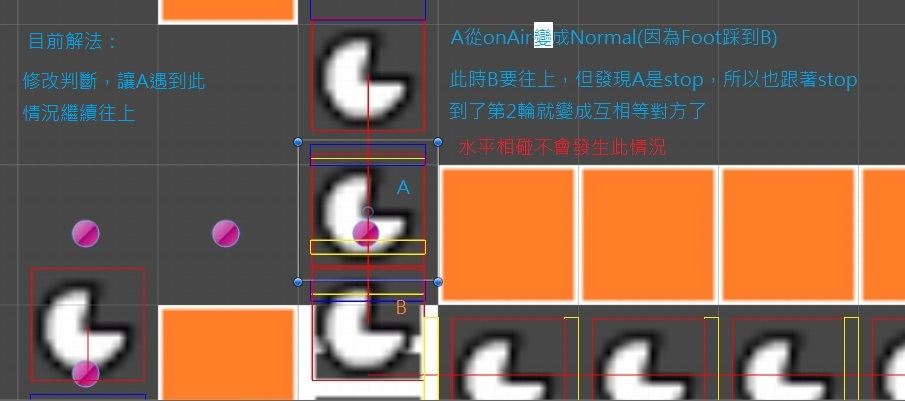
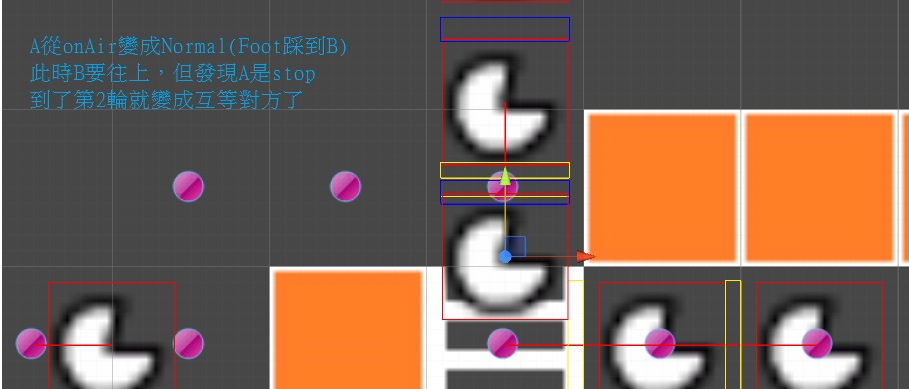
修bug：onComing
(1)修復LodeRunnerScreenshot\備註\瞬移.jpg
(2)找到引起LodeRunnerScreenshot\fixed\onComing.jpg的原因並修正

diff --git a/Assets/script/Controller/LodeRunner/Movable.cs b/Assets/script/Controller/LodeRunner/Movable.cs
@@ -126,6 +126,8 @@ public class Movable : MonoBehaviour {
     //(1)玩家降落到rope時，要再發送一次MoveDown(因為Normal狀態重力會關掉)
     // .
     //-----
+
+    bool isFootTouchAI = false; 
     void checkFootArea(int mask)
     {
         float hwidth = 0.41f;//比collider box稍寬
@@ -142,13 +144,16 @@ public class Movable : MonoBehaviour {
         Debug.DrawLine(leftUp, leftDown, Color.blue);
         Debug.DrawLine(rightUp, rightDown, Color.blue);
 
-        Collider2D touchZone = Physics2D.OverlapArea(leftUp, rightDown, mask);//這連trigger都會判定
-        if (touchZone != null)
+        Collider2D footTouchZone = Physics2D.OverlapArea(leftUp, rightDown, mask);//這連trigger都會判定
+        if (footTouchZone != null)
         {
+            isFootTouchAI = footTouchZone.tag == "Monster";
+            
+
             sendMsgLanding();
 
             //如果從上面落下碰到rope，要主動往rope移動
-            if (touchZone.tag == "Rope")
+            if (footTouchZone.tag == "Rope")
             {
                 bool downIsRope = downTileIsRope();
                 bool downIsBlock = downTileIsBlock();
@@ -183,11 +188,11 @@ public class Movable : MonoBehaviour {
                 }    
             }
             //取消Brick的FadeOut
-            else if (touchZone.tag == "Brick")
+            else if (footTouchZone.tag == "Brick")
             {
                 if (tag == "Monster")
                 {
-                    Brick brick = touchZone.GetComponent<Brick>();
+                    Brick brick = footTouchZone.GetComponent<Brick>();
                     StateMachine<Brick> sm = brick.getSM();
                     if (sm != null)
                     {
@@ -731,9 +736,14 @@ public class Movable : MonoBehaviour {
 
             obj.doStopMove();
 
-            //並且下面的tile是ladder、Rope、Brick、Stone、trap要調整高度
-            if (obj.downTileIsLadder() || obj.downTileIsBlock() || obj.downTileIsRope() || obj.nowTileIsBrick())
-                obj.adjustY();
+            //修正AI踩到AI就瞬移的問題
+            if (!obj.isFootTouchAI)
+            { 
+                //並且下面的tile是ladder、Rope、Brick、Stone、trap要調整高度
+                if (obj.downTileIsLadder() || obj.downTileIsBlock() || obj.downTileIsRope() || obj.nowTileIsBrick())
+                    obj.adjustY();
+
+            }
         }
         public override void exit(Movable obj) { }
         public override void execute(Movable obj)

diff --git a/Assets/script/Controller/LodeRunner/AIMoveController.cs b/Assets/script/Controller/LodeRunner/AIMoveController.cs
@@ -238,13 +238,8 @@ public class AIMoveController : MonoBehaviour
 
                     bool stopAndNoraml = ai.getMoveCommand() == MoveCommand.stop && ai.movable.getSM().getCurrentState() == Movable.NormalState.Instance();
 
-                    if (!stopMoveSituation && stopAndNoraml)//即將撞到normal
-                    {
-                        if (Debug_Oncoming)
-                            printDebugMsg("[注意!]碰到了，記得要refindPath阿"+ai.name);
-
-                        ai.getSM().handleMessage(new StateMsg((int)AIMsg.reFindPath));
-                    }
+                    if(Debug_Oncoming)
+                        printDebugMsg("[注意]up is stopAndNoraml");
 
                     handleTooClose(ai, stopMoveSituation, movable.sendMsgMoveUp);
                 }
